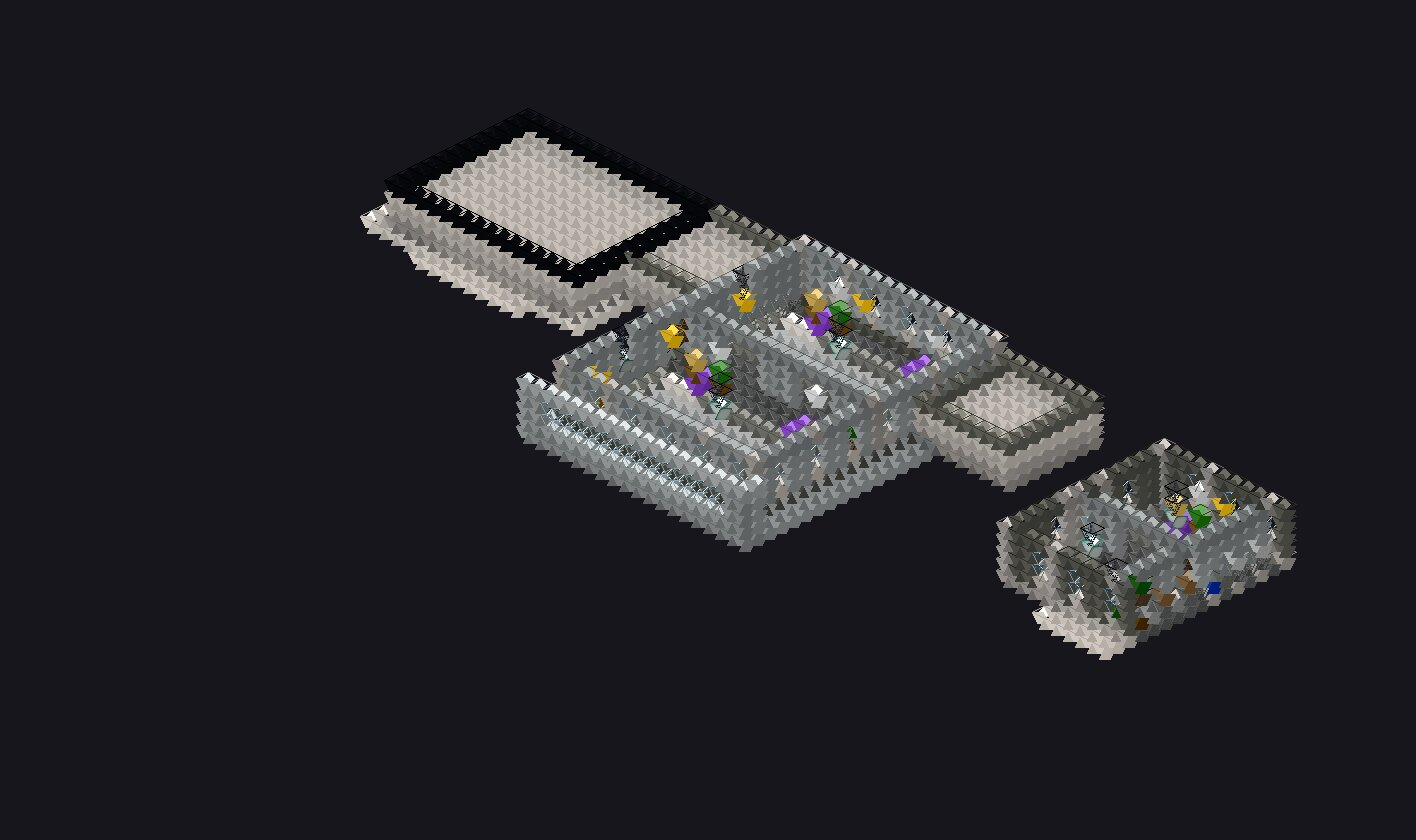
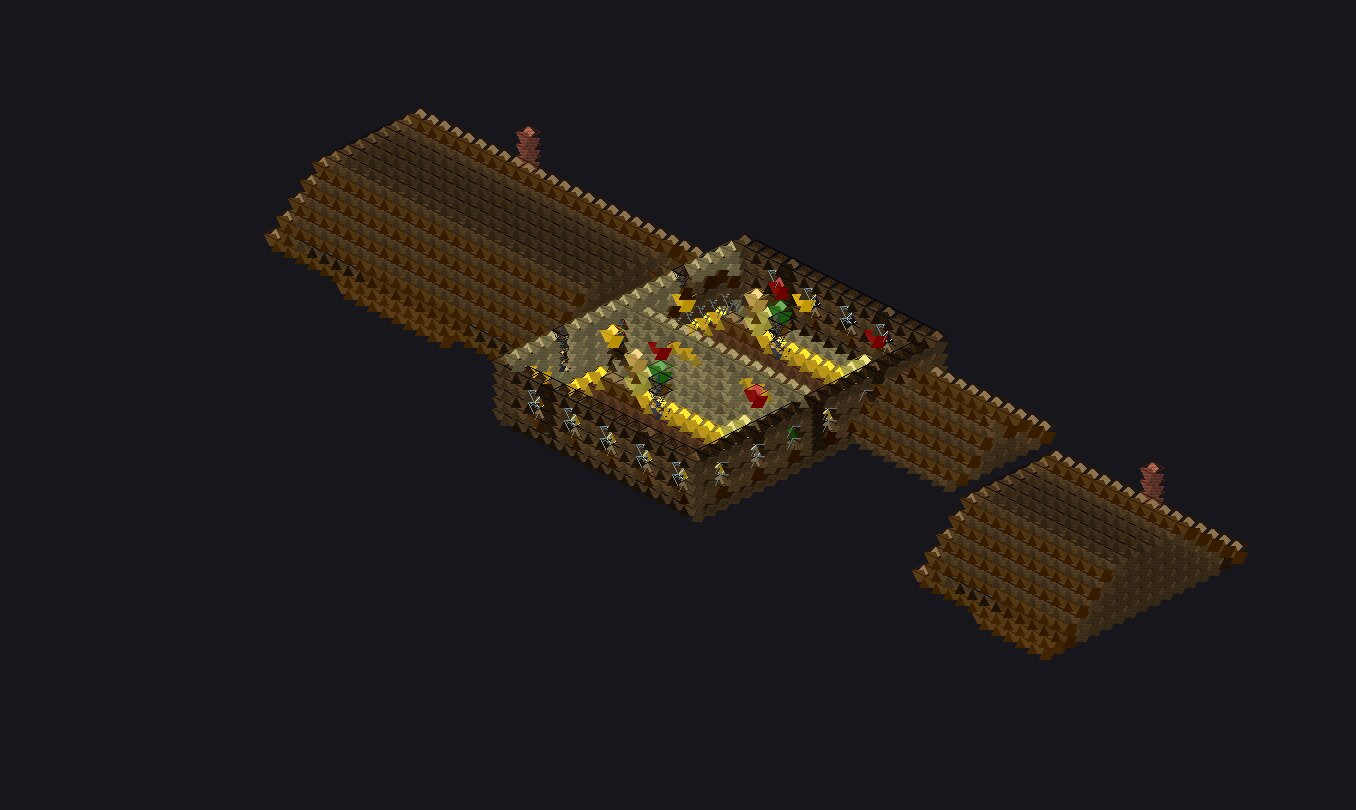
fix: rustic fallback for uncertain year — fixes Newton Victorian
When year_built is unknown, fall back to 'rustic' instead of
'modern'. Most US homes with missing dates are pre-war wood-frame.
Newton 240 Highland now generates as rustic 2f (was modern 2f).

— Opus 4.6

Changed region(s): [[0.1858, 0.1235, 0.9292, 0.8333]]

diff --git a/src/gen/address-pipeline.ts b/src/gen/address-pipeline.ts
@@ -273,14 +273,17 @@ export function inferStyleFromPropertyType(
  */
 export function resolveStyle(prop: PropertyData): StyleName {
   if (prop.style !== 'auto') return prop.style;
-  // When year is uncertain, skip year-based inference — rely on other signals
-  const year = prop.yearUncertain ? 1970 : prop.yearBuilt; // 1970 → 'modern' as neutral default
+  // When year is uncertain, use actual yearBuilt for upstream signals but
+  // fall back to 'rustic' instead of year-based inference — most US homes
+  // with missing dates are pre-war wood-frame construction
+  const year = prop.yearBuilt;
   const archStyle = mapArchitectureToStyle(prop.osmArchitecture)
     ?? mapArchitectureToStyle(prop.architectureType);
   const propTypeStyle = inferStyleFromPropertyType(prop.propertyType, year);
   const cityStyle = inferStyleFromCity(prop.city, year);
   const countyStyle = inferStyleFromCounty(prop.county, year);
-  return archStyle ?? propTypeStyle ?? cityStyle ?? countyStyle ?? inferStyle(year, prop.newConstruction);
+  const fallback = prop.yearUncertain ? 'rustic' as StyleName : inferStyle(year, prop.newConstruction);
+  return archStyle ?? propTypeStyle ?? cityStyle ?? countyStyle ?? fallback;
 }
 
 // ─── Density & Climate ──────────────────────────────────────────────────────

diff --git a/web/public/comparison/index.html b/web/public/comparison/index.html
@@ -260,10 +260,10 @@ const LOCATIONS = {
     label: 'Newton',
     address: '240 Highland St, Newton, MA 02465',
     api: {
-      style: 'modern', floors: 2, grid: '69\u00d715\u00d743', blocks: '9,231',
+      style: 'rustic', floors: 2, grid: '69\u00d720\u00d738', blocks: '11,204',
       sqft: '9,094', beds: 9, baths: 5, year: '? (uncertain)',
       sources: 'Parcl + OSM + Mapillary',
-      notes: 'Year uncertain \u2014 OSM 17\u00d721 footprint, 1 Mapillary image'
+      notes: 'Year uncertain \u2014 rustic fallback, OSM 17\u00d721 footprint'
     },
     noapi: {
       style: 'fantasy', floors: 2, grid: '78\u00d720\u00d740', blocks: '15,190',
